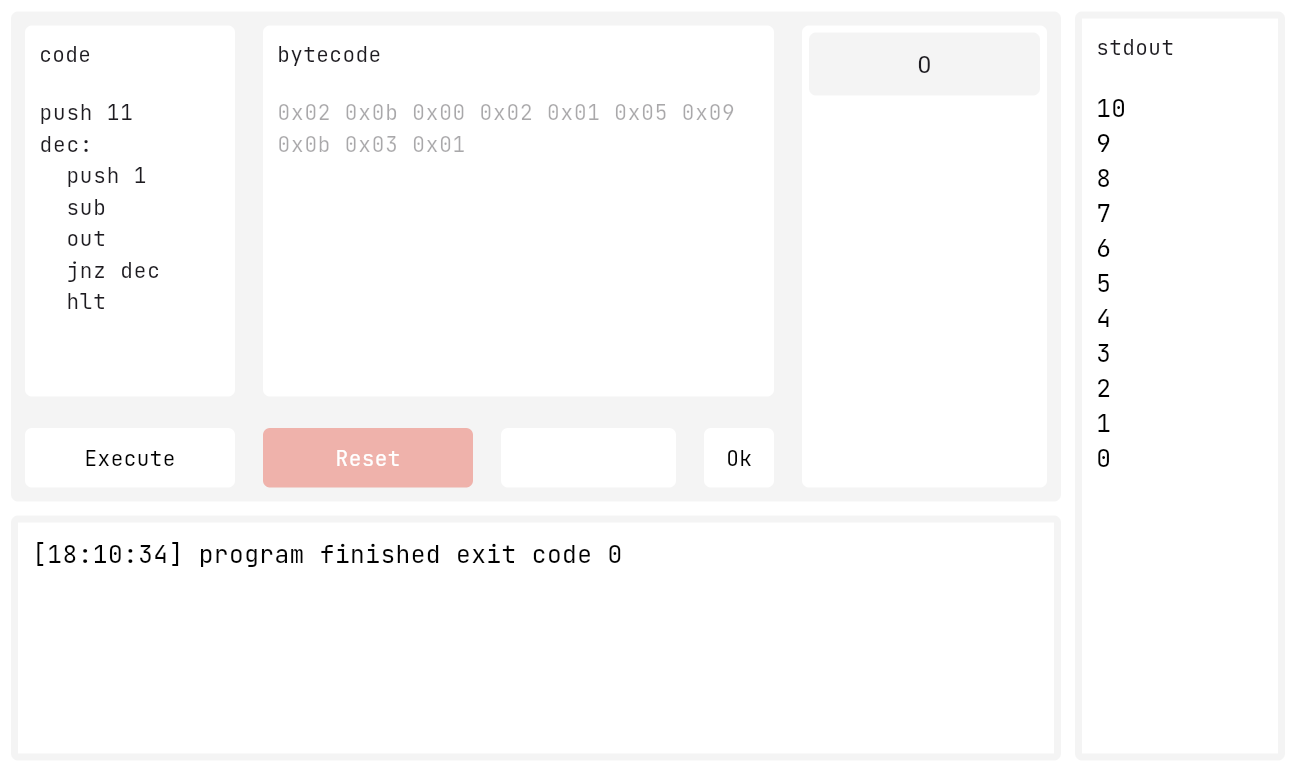
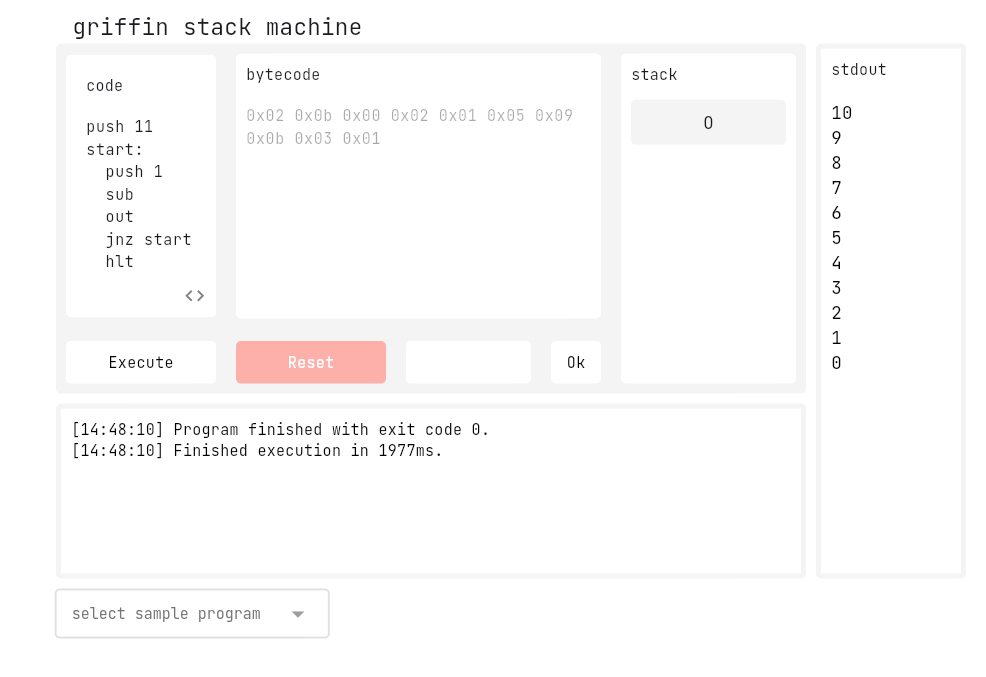
change name

diff --git a/lib/home/views/home.dart b/lib/home/views/home.dart
@@ -1,20 +1,23 @@
+
+
 import 'dart:async';
 
-import 'package:allium/home/widgets/common/allium_dropdown.dart';
-import 'package:allium/home/widgets/common/allium_field.dart';
-import 'package:allium/home/widgets/opcodeDocs/vm_operations.dart';
-import 'package:allium/home/widgets/vm/console.dart';
-import 'package:allium/home/widgets/vm/stack.dart';
-import 'package:allium/home/widgets/vm/stack_code_editor.dart';
-import 'package:allium/home/widgets/vm/stdout.dart';
-import 'package:allium/vm/machine/vm_settings.dart';
-import 'package:allium/vm/utils/program_mapper.dart';
 import 'package:flutter/material.dart';
+import 'package:griffin/home/widgets/common/griffin_button.dart';
+import 'package:griffin/home/widgets/common/griffin_dropdown.dart';
+import 'package:griffin/home/widgets/common/griffin_field.dart';
+
 import '../../constants.dart';
-import 'package:allium/home/widgets/common/allium_button.dart';
-import 'package:allium/vm/machine/machine.dart';
-import 'package:allium/vm/machine/stack.dart';
-import 'package:allium/vm/machine/value.dart';
+import '../../vm/machine/machine.dart';
+import '../../vm/machine/stack.dart';
+import '../../vm/machine/value.dart';
+import '../../vm/machine/vm_settings.dart';
+import '../../vm/utils/program_mapper.dart';
+import '../widgets/opcodeDocs/vm_operations.dart';
+import '../widgets/vm/console.dart';
+import '../widgets/vm/stack.dart';
+import '../widgets/vm/stack_code_editor.dart';
+import '../widgets/vm/stdout.dart';
 
 class HomeView extends StatefulWidget {
   const HomeView({super.key});
@@ -238,7 +241,7 @@ class _HomeViewState extends State<HomeView> {
         child: Column(
           crossAxisAlignment: CrossAxisAlignment.end,
           children: [
-            AlliumField(
+            GriffinField(
               height: 168,
               header: "code",
               maxLines: null,
@@ -276,7 +279,7 @@ class _HomeViewState extends State<HomeView> {
         Row(
           children: [
             _codeField(),
-            AlliumField(
+            GriffinField(
               header: "bytecode",
               width: 292,
               maxLines: null,
@@ -302,7 +305,7 @@ class _HomeViewState extends State<HomeView> {
   Widget _programDropdown() {
     return SizedBox(
       width: 220, height: 40,
-      child: AlliumDropdown(
+      child: GriffinDropdown(
         items: const ["cat program", "decrement counter"], 
         onChanged: (item) {
           codeController.text = ProgramMapper.mapProgramString(item ?? "");
@@ -312,7 +315,7 @@ class _HomeViewState extends State<HomeView> {
   }
 
   Widget _userInputButton() {
-    return AlliumButton(
+    return GriffinButton(
       width: 40,
       color: Colors.white,
       onTap: () {
@@ -326,7 +329,7 @@ class _HomeViewState extends State<HomeView> {
   }
 
   Widget _userInputBox() {
-    return AlliumField(
+    return GriffinField(
       readonly: false,
       maxLines: 1,
       maxLength: 8,
@@ -337,7 +340,7 @@ class _HomeViewState extends State<HomeView> {
   }
 
   Widget _execButton() {
-    return AlliumButton(
+    return GriffinButton(
       onTap: _onExec,
       text: "Execute",
       color: Colors.white,
@@ -345,7 +348,7 @@ class _HomeViewState extends State<HomeView> {
   }
 
   Widget _resetButton() {
-    return AlliumButton(
+    return GriffinButton(
       onTap: _resetVM,
       text: "Reset",
       color: const Color.fromARGB(255, 253, 175, 169),
@@ -387,7 +390,7 @@ class _HomeViewState extends State<HomeView> {
               ),
             ),
           ),
-          AlliumField(
+          GriffinField(
             maxLength: 3,
             maxLines: 1,
             width: 80,

diff --git a/lib/constants.dart b/lib/constants.dart
@@ -1,11 +1,10 @@
-import 'package:allium/home/widgets/opcodeDocs/vm_operations.dart';
-import 'package:allium/vm/machine/vm_macro.dart';
 import 'package:google_fonts/google_fonts.dart';
 import 'dart:ui';
 
+import 'vm/machine/vm_macro.dart';
 import 'vm/models/vm_operation.dart';
 
-const appName = "allium stack machine";
+const appName = "griffin stack machine";
 
 const lightGrey = Color.fromARGB(255, 244, 244, 244);
 
@@ -144,9 +143,9 @@ List<VMOperation> operations = [
 
 List<VMMacro> macros = [
   VMMacro(
-    commandName: "outfive", 
+    commandName: "outfive",
     operations: [
       _out, _out, _out, _out, _out
     ]
-  )
+  ),
 ];

diff --git a/lib/vm/machine/machine.dart b/lib/vm/machine/machine.dart
@@ -1,8 +1,9 @@
-import 'package:allium/vm/machine/parser.dart';
-import 'package:allium/vm/machine/result.dart';
-import 'package:allium/vm/machine/stack.dart';
-import 'package:allium/vm/machine/value.dart';
-import 'package:allium/vm/machine/vm_settings.dart';
+import 'package:griffin/vm/machine/parser.dart';
+import 'package:griffin/vm/machine/stack.dart';
+
+import 'result.dart';
+import 'value.dart';
+import 'vm_settings.dart';
 
 abstract interface class VM {
   void execute(String program);

diff --git a/lib/home/widgets/opcodeDocs/vm_operations.dart b/lib/home/widgets/opcodeDocs/vm_operations.dart
@@ -1,6 +1,7 @@
-import 'package:allium/constants.dart';
-import 'package:allium/vm/models/vm_operation.dart';
 import 'package:flutter/material.dart';
+
+import '../../../constants.dart';
+import '../../../vm/models/vm_operation.dart';
 
 class VmOperations extends StatefulWidget {
   const VmOperations({super.key});

diff --git a/lib/home/widgets/vm/stack_code_editor.dart b/lib/home/widgets/vm/stack_code_editor.dart
@@ -1,5 +1,6 @@
-import 'package:allium/constants.dart';
 import 'package:flutter/material.dart';
+
+import '../../../constants.dart';
 
 class StackCodeEditor extends StatefulWidget {
   const StackCodeEditor({super.key, required this.controller});

diff --git a/lib/main.dart b/lib/main.dart
@@ -1,5 +1,6 @@
-import 'package:allium/home/views/home.dart';
 import 'package:flutter/material.dart';
+
+import 'home/views/home.dart';
 
 void main() {
   runApp(const App());

diff --git a/lib/vm/machine/vm_macro.dart b/lib/vm/machine/vm_macro.dart
@@ -1,4 +1,4 @@
-import 'package:allium/vm/models/vm_operation.dart';
+import '../models/vm_operation.dart';
 
 final class VMMacro {
   final String commandName;

diff --git a/lib/vm/machine/parser.dart b/lib/vm/machine/parser.dart
@@ -1,5 +1,4 @@
-import 'package:allium/constants.dart';
-
+import '../../constants.dart';
 import 'result.dart';
 
 final class VirtualMachineParser {

diff --git a/README.md b/README.md
@@ -4,4 +4,4 @@ A stack-based virtual machine that compiles into bytecode and supports the creat
 
 <br/>
 
-![image](https://github.com/user-attachments/assets/be4914be-7a32-4ce9-9574-6d5eddfa0d38)
+![alt text](image.png)
